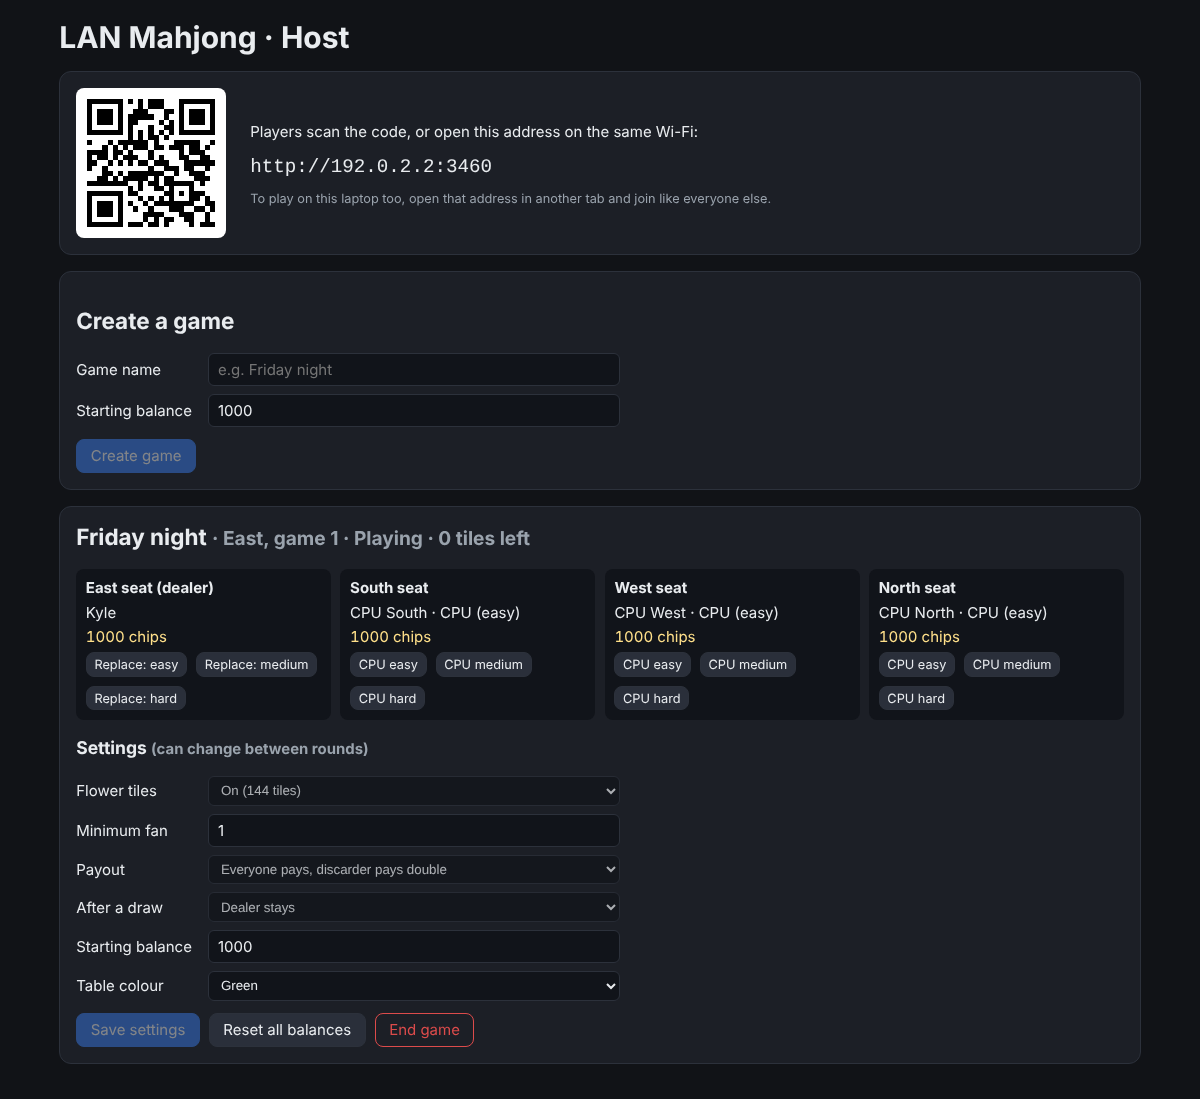
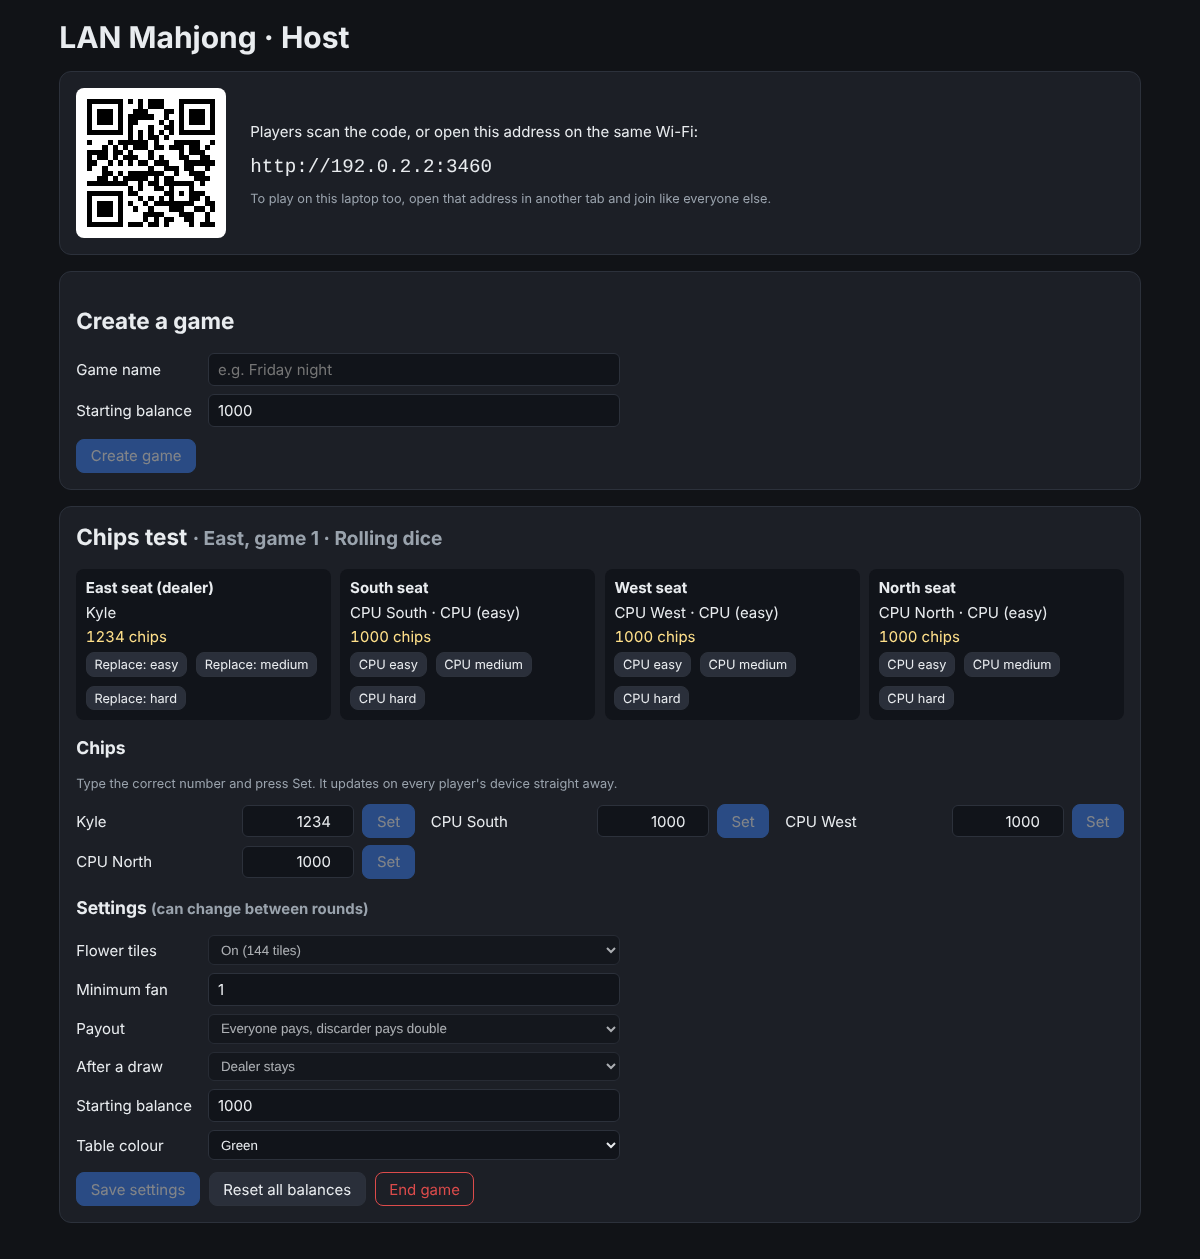
Chips can only be changed by hand on the host page
- New host control: type a person's chip count and press Set; every device
  updates straight away
- Removed the chip lock button from the players' screen
- Manual payout calculator and player-voted adjustments dropped from the plan

Claude-Session: https://claude.ai/code/session_015YHyyK2QNgGagiGzuaLbCn

diff --git a/client/src/HostApp.tsx b/client/src/HostApp.tsx
@@ -98,6 +98,28 @@ export function HostApp(): ReactElement {
   );
 }
 
+/** One person's chip count on the host page: type a number and press Set. */
+function ChipRow({ name, balance, onSet }: { name: string; balance: number; onSet: (b: number) => void }): ReactElement {
+  const [value, setValue] = useState(String(balance));
+  useEffect(() => setValue(String(balance)), [balance]);
+  const n = Number(value);
+  const valid = value.trim() !== '' && Number.isInteger(n);
+  const changed = valid && n !== balance;
+  return (
+    <form
+      className="chip-row"
+      onSubmit={(e) => {
+        e.preventDefault();
+        if (changed) onSet(n);
+      }}
+    >
+      <span className="chip-name">{name}</span>
+      <input type="number" step={1} value={value} onChange={(e) => setValue(e.target.value)} aria-label={`Chips for ${name}`} />
+      <button className="btn primary" type="submit" disabled={!changed}>Set</button>
+    </form>
+  );
+}
+
 function GameCard({ game, send }: { game: HostGameView; send: (m: HostMessage) => void }): ReactElement {
   const cmd = (command: Extract<HostMessage, { type: 'hostCommand' }>['command']): void => send({ type: 'hostCommand', gameId: game.id, command });
   const [confirmEnd, setConfirmEnd] = useState(false);
@@ -140,9 +162,20 @@ function GameCard({ game, send }: { game: HostGameView; send: (m: HostMessage) =
       </div>
       {game.spectators.length > 0 && (
         <p className="small">
-          Watching / not seated: {game.spectators.map((p) => `${p.name}${p.connected ? '' : ' (offline)'} (${p.balance})`).join(', ')}
+          Watching / not seated: {game.spectators.map((p) => `${p.name}${p.connected ? '' : ' (offline)'}`).join(', ')}
         </p>
       )}
+
+      <h3>Chips</h3>
+      <p className="muted small">Type the correct number and press Set. It updates on every player's device straight away.</p>
+      <div className="chips-editor">
+        {[
+          ...game.seats.filter((s) => s.name !== null).map((s) => ({ name: s.name!, balance: s.balance ?? 0, cpu: !!s.cpu })),
+          ...game.spectators.map((p) => ({ name: p.name, balance: p.balance, cpu: false })),
+        ].map((p) => (
+          <ChipRow key={p.name} name={p.name} balance={p.balance} onSet={(balance) => cmd({ type: 'hostSetBalance', name: p.name, balance })} />
+        ))}
+      </div>
 
       <h3>Settings {between ? '' : <span className="muted small">(can change between rounds)</span>}</h3>
       <div className="form-grid">

diff --git a/client/src/Table.tsx b/client/src/Table.tsx
@@ -2,7 +2,7 @@
  * The game table: the screen you play on.
  *
  * Layout (landscape, the same for everyone):
- * - Top bar: undo (left), round and seat winds (centre), chips + lock, help,
+ * - Top bar: undo (left), round and seat winds (centre), your chips, help,
  *   settings (right).
  * - Middle: the other three players, the wall around the table and every
  *   discarded tile.
@@ -59,7 +59,6 @@ export function Table({ view, send, onLeave, prefs, setPrefs }: Props): ReactEle
   /** Spectators can close the seat picker and just watch. */
   const [justWatching, setJustWatching] = useState(false);
   const [chooser, setChooser] = useState<Chooser>(null);
-  const [locked, setLocked] = useState(true);
   const command = (c: Extract<ClientMessage, { type: 'command' }>['command']): void => send({ type: 'command', command: c });
   const doClaim = (claim: Claim): void => command({ type: 'claim', claim });
 
@@ -291,12 +290,7 @@ export function Table({ view, send, onLeave, prefs, setPrefs }: Props): ReactEle
         </div>
         <div className="topbar-right">
           {me && (
-            <span className="chip-total">
-              {me.balance}
-              <button className="lock" title={locked ? tr('lockOn') : tr('lockOff')} onClick={() => setLocked(!locked)}>
-                {locked ? '🔒' : '🔓'}
-              </button>
-            </span>
+            <span className="chip-total">{me.balance}</span>
           )}
           <button className="btn icon" title={tr('help')} onClick={() => setPanel('help')}>?</button>
           <button className="btn icon" title={tr('settings')} onClick={() => setPanel('settings')}>⚙</button>

diff --git a/server/src/game/room.ts b/server/src/game/room.ts
@@ -131,6 +131,8 @@ export type HostCommand =
   /** Put a CPU in a seat (replacing whoever is there), or empty a CPU seat (cpu: null). */
   | { type: 'hostSetSeat'; seat: number; cpu: CpuDifficulty | null }
   | { type: 'hostResetBalances' }
+  /** Type in a person's chip count (the only way to change chips by hand). */
+  | { type: 'hostSetBalance'; name: string; balance: number }
   | { type: 'hostUpdateSettings'; settings: Partial<GameSettings>; startingBalance?: number }
   | { type: 'hostSetTableColour'; colour: TableColour }
   | { type: 'hostEndGame' };
@@ -520,6 +522,13 @@ export function handleHostCommand(prev: Room, cmd: HostCommand, now: number): Ro
     case 'hostResetBalances':
       for (const p of Object.values(room.people)) p.balance = room.startingBalance;
       break;
+    case 'hostSetBalance': {
+      const person = room.people[nameKey(String(cmd.name ?? ''))];
+      if (!person) fail('There is nobody with that name in this game.');
+      if (!Number.isInteger(cmd.balance) || Math.abs(cmd.balance) > 1_000_000_000) fail('Chips must be a whole number.');
+      person!.balance = cmd.balance;
+      break;
+    }
     case 'hostUpdateSettings': {
       if (room.phase !== 'betweenRounds') fail('Game settings can only change between rounds.');
       const settings = { ...room.match.settings, ...cmd.settings };

diff --git a/client/src/styles.css b/client/src/styles.css
@@ -112,7 +112,6 @@ input { font: inherit; }
 .compass-top { grid-area: t; } .compass-left { grid-area: l; } .compass-right { grid-area: r; } .compass-bottom { grid-area: b; }
 .compass-dealer { color: #ffd447; font-weight: 700; }
 .chip-total { font-weight: 700; font-variant-numeric: tabular-nums; display: flex; align-items: center; gap: 0.2em; font-size: 1.15em; }
-.lock { background: none; border: none; cursor: pointer; font-size: 0.9em; padding: 0 0.2em; }
 
 .board {
   display: grid;
@@ -373,3 +372,12 @@ input { font: inherit; }
 }
 .lobby-head { display: flex; align-items: center; justify-content: space-between; gap: 1rem; flex-wrap: wrap; margin-bottom: 1rem; }
 .lobby-head h1 { margin: 0; }
+
+/* Host page: chips editor */
+.chips-editor { display: grid; grid-template-columns: repeat(auto-fit, minmax(17rem, 1fr)); gap: 0.4rem 1rem; margin-bottom: 0.8rem; }
+.chip-row { display: grid; grid-template-columns: 1fr 7rem auto; gap: 0.5rem; align-items: center; }
+.chip-name { overflow: hidden; text-overflow: ellipsis; white-space: nowrap; }
+.chip-row input {
+  background: var(--input-bg); color: var(--fg); border: 1px solid var(--panel-border); border-radius: 6px;
+  padding: 0.35em 0.5em; text-align: right; -webkit-user-select: text; user-select: text;
+}

diff --git a/server/test/room.test.ts b/server/test/room.test.ts
@@ -217,6 +217,18 @@ describe('host controls (laptop host page only)', () => {
     expect(() => host(startedTable(), { type: 'hostUpdateSettings', settings: { minFan: 2 } })).toThrow(/between rounds/);
   });
 
+  it('the host page can type in any person\'s chip count (players cannot)', () => {
+    let r = join(startedTable(), 'Spec');
+    r = host(r, { type: 'hostSetBalance', name: 'AMY', balance: 1450 });
+    r = host(r, { type: 'hostSetBalance', name: 'Spec', balance: -20 });
+    expect(r.people.amy!.balance).toBe(1450);
+    expect(r.people.spec!.balance).toBe(-20);
+    expect(viewFor(r, 'ben', tick()).seats[1]!.balance).toBe(1450); // everyone sees it
+    expect(() => host(r, { type: 'hostSetBalance', name: 'Nobody', balance: 5 })).toThrow(/nobody/);
+    expect(() => host(r, { type: 'hostSetBalance', name: 'Amy', balance: 1.5 })).toThrow(/whole number/);
+    expect(() => cmd(r, 'Amy', { type: 'hostSetBalance', name: 'Amy', balance: 9999 } as unknown as Command)).toThrow();
+  });
+
   it('reset balances', () => {
     let r = fullTable();
     r.people.amy!.balance = 5;

diff --git a/client/src/i18n.ts b/client/src/i18n.ts
@@ -43,8 +43,6 @@ const en = {
   reconnecting: 'Reconnecting…',
   rotate: 'Please turn your device sideways.',
   gameEndedByHost: 'The game was ended by the host.',
-  lockOn: 'Unlock (manual calculating)',
-  lockOff: 'Lock',
   // hints
   hintDraw: 'Your turn: drag the end tile of the wall into your hand.',
   hintReplace: 'Drag the replacement tile from the back of the wall into your hand.',
@@ -141,8 +139,6 @@ const zh: Strings = {
   reconnecting: '重新連接緊…',
   rotate: '請將部機打橫。',
   gameEndedByHost: '主機已經完咗呢局。',
-  lockOn: '解鎖（手動計數）',
-  lockOff: '鎖定',
   hintDraw: '到你：將牌牆尾嗰隻牌拖入手。',
   hintReplace: '將牌牆後面嘅補牌拖入手。',
   hintDiscard: '將一隻牌拖去枱中間打出。',

diff --git a/PROJECT_NOTES.md b/PROJECT_NOTES.md
@@ -9,7 +9,7 @@ disagrees with those, the newest dated entry here wins.
 - Phase 1 (rules engine): **done**. Tile set and checks, shuffle, wall and dice
   break, dealing with flower replacement, winning-hand check, legal
   chow/pong/gong/win, two-winner rule, fan counting, payments.
-- Tests: 186 passing (`npm test`), including 60 rounds of random play that check no tile is ever lost or created.
+- Tests: 187 passing (`npm test`), including 60 rounds of random play that check no tile is ever lost or created.
 - Phase 2 (game server): **done**.
   - Step 1 round engine (`server/src/game/round.ts`): **done**.
   - Step 2 full 16-round game (`server/src/game/match.ts`): **done**.
@@ -28,7 +28,7 @@ disagrees with those, the newest dated entry here wins.
 - Phase 5 (player settings): **done**. Settings panel with name change,
   language (English / Hong Kong Chinese) and theme slider (Light / Dark /
   System). Host settings live on the host page (done in phase 3).
-- Phase 6 (win summary and manual payouts): next.
+- Phase 6 (win summary): next. Manual payouts were moved to the host page (see decisions).
 
 ## Decisions
 
@@ -75,7 +75,6 @@ disagrees with those, the newest dated entry here wins.
 | 2026-11-08 | **Screen tech:** React + Vite. `npm start` builds the screens and starts the server, which sends them to each device. | Claude |
 | 2026-11-08 | **Screen layout:** your seat is always at the bottom; next player on the right, opposite at the top, previous on the left. Each player's discards sit in front of them in the middle; the newest discard is outlined in yellow. The tile to draw glows yellow on the wall. | Claude (Kyle may change) |
 | 2026-11-08 | **Spectator view:** a spectator sees the table from seat East's side by default; tapping a player's panel moves that player to the bottom. The eye button on a player shows/hides their hand. | Claude (Kyle may change) |
-| 2026-11-08 | **Chip lock button:** shown next to the chip total but does nothing yet (manual calculating is phase 6). | Claude |
 | 2026-11-08 | **Spectator "All hands":** a button for spectators opens a screen showing only the 4 hands (tiles, flowers and shown sets). It does not change which single hands the spectator chose to reveal on the table. | Kyle |
 | 2026-11-08 | **Spectate button** in the middle of the seat picker: anyone can start watching straight away (a seated player who taps it leaves their seat). Spectators get a "Take a seat" button between rounds. | Kyle |
 | 2026-11-08 | **CPUs only from the host page.** New games start with all 4 seats empty. Players can never add a CPU. "Drop out" in a player's settings just frees the seat (the player becomes a spectator and keeps their chips). During a round the empty seat keeps its tiles and the game waits on it until the host page adds a CPU. Swapping with a spectator (who must confirm) is still available. | Kyle |
@@ -84,6 +83,7 @@ disagrees with those, the newest dated entry here wins.
 | 2026-11-08 | **1 bamboo** is drawn as a flat peacock (crest, fanned tail with eye spots) instead of the earlier simple bird. | Kyle |
 | 2026-11-08 | **Chinese wording:** Traditional Chinese with Hong Kong (Cantonese) table wording, e.g. 食糊, 出銃, 自摸, 流局, 雞糊, 爆棚. Server messages are translated on the device. CPU names show as 電腦東/南/西/北. | Kyle |
 | 2026-11-08 | **Player settings panel** (⚙): change name (type + Save; chips, seat and settings move to the new name), language (English / 中文), theme slider (Light / Dark / System, default Dark), drop out, leave game. Language and theme are saved on the device AND under the player's name on the server, so they follow the name to another device. The language can also be chosen on the start screen. | Kyle |
+| 2026-11-08 | **Manual chip changes: host page only.** Removed from the players' app: the manual payout calculator, manual adjustments with everyone agreeing, and the chip lock button (it only existed for manual calculating). The host page has a chip box for every person in a game: type the number, press Set, and it updates on every device at once. Automatic payouts after a win, and everyone confirming the round, stay as they are. | Kyle |
 | 2026-11-08 | **First dealer** of a new game is seat 0 (East). | Claude (Kyle may change) |
 | 2026-11-08 | **Undo moves:** discard, 上, 碰, 槓, 胡. Draws are not separate moves. Undoing a discard puts the tile back in that player's hand and it is their turn again. | Kyle |
 | 2026-11-08 | **Several games at once:** one server can run many separate games, each with its own name. | Kyle |
